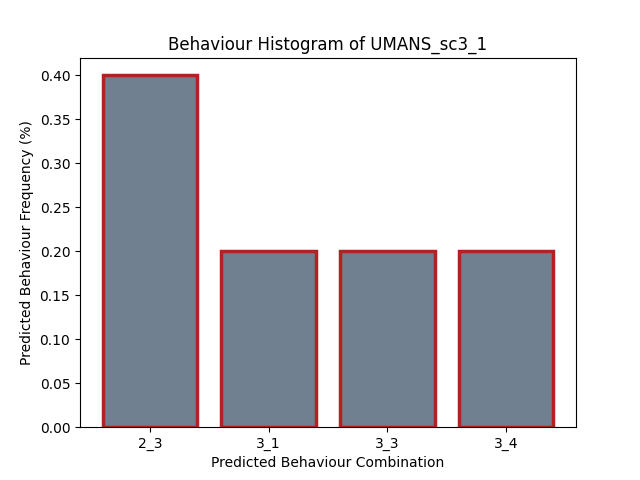
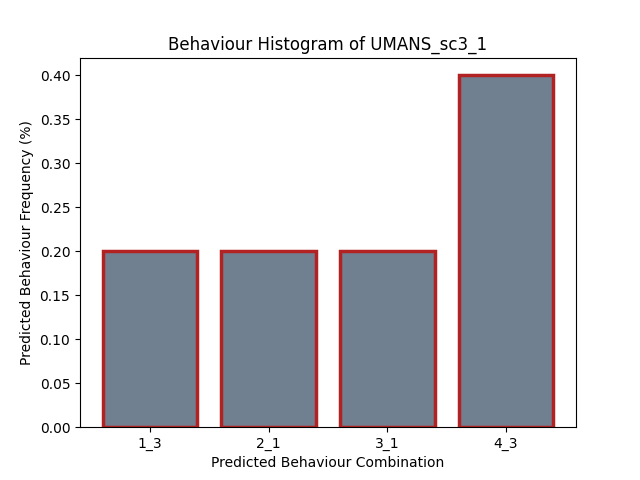
-- siamese

diff --git a/SocialLandmarks_Python/Tool/run_similarity.py b/SocialLandmarks_Python/Tool/run_similarity.py
@@ -17,42 +17,61 @@ def load_data_keras(folder_path):
     return image
 
 if __name__ ==  '__main__':
-    # TODO: specify directories
-    npz_real = "C:\PROJECTS\SocialLandmarks\SocialLandmarks_Python\Data\PythonFiles\ActedScenarios\Scenario2_guard\scenario2_guard_subject1.npz"
-    # npz_sim = "C:\PROJECTS\SocialLandmarks\SocialLandmarks_Python\Data\PythonFiles\CaseStudy\CCP\Scenario2_guard\Agent_441433527_855392969.npz"
-    # npz_sim = "C:\\PROJECTS\\SocialLandmarks\\SocialLandmarks_Python\\Data\\PythonFiles\\CaseStudy\\UMANS\\Scenario2_guard\\output_1.npz"
-    npz_sim = "C:\\PROJECTS\\SocialLandmarks\\SocialLandmarks_Python\\Data\\PythonFiles\\CaseStudy\\SL\\Scenario2_guard\\agent_1.npz"
+    parser = argparse.ArgumentParser(description="Process command-line inputs.")
+    parser.add_argument('--scenario', type=str, default="Scenario3_exhibit", help='Specific Scenario to perform Inference.')
+    parser.add_argument('--source', type=str, default="SL", help='Synthetic Trajectory Source.')
+    parser.add_argument('--sim_agent', type=str, default="agent_1.npz", help='Simulated agent name.')
+    args = parser.parse_args()
 
-    # Load Model
-    image_encoder = tf.keras.models.load_model("C:\PROJECTS\SocialLandmarks\SocialLandmarks_Python\Models\CrowdLIP\image_encoder_model.h5")
-    print("SUCCESS! Encoder is loaded.")
+    scenario_l = (args.scenario).lower()
+    real_dir = f"C:\PROJECTS\SocialLandmarks\SocialLandmarks_Python\Data\PythonFiles\CaseStudy\RecordedData\{args.scenario}\\"
+    reals = [f"{scenario_l}_subject1.npz", f"{scenario_l}_subject2.npz", f"{scenario_l}_subject3.npz",
+             f"{scenario_l}_subject4.npz", f"{scenario_l}_subject5.npz"]
+    sim_name = args.sim_agent
+    full_dict = {}
+    score_dict = {}
+    scores = []
+    for real_name in reals:
+        npz_real = real_dir + real_name
+        npz_sim = f"C:\PROJECTS\SocialLandmarks\SocialLandmarks_Python\Data\PythonFiles\CaseStudy\\{args.source}\{args.scenario}\\" + sim_name
+        # npz_sim = f"C:\PROJECTS\SocialLandmarks\SocialLandmarks_Python\Data\PythonFiles\CaseStudy\\{args.source}\Scenario2_guard\\" + sim_name
 
-    # Load Data
-    real = load_data_keras(npz_real) 
-    sim = load_data_keras(npz_sim) 
-    print(real.shape, sim.shape)
-    print("SUCCESS! Data is loaded.")
+        # Load Model
+        image_encoder = tf.keras.models.load_model("C:\PROJECTS\SocialLandmarks\SocialLandmarks_Python\Models\CrowdLIP\image_encoder_model.h5")
+        print("SUCCESS! Encoder is loaded.")
 
-    # Usage:
-    emb_a = image_encoder(real)
-    emb_b = image_encoder(sim)
-    emb_a_norm = Lambda(normalize)(emb_a)
-    emb_b_norm = Lambda(normalize)(emb_b)
-    print(emb_b_norm.shape, emb_a_norm.shape)
-    distance = Lambda(euclidean_distance)([emb_a_norm, emb_b_norm]) #bounded from 0 to 2
-    distance_norm = distance/2
-    print(distance_norm.shape)
-    score = 1 - distance_norm[0,0]
-    simScore = f"{float(score)*100}%"
-    print("Similarity Score is: ",float(score)*100, "%")
-    # if distance_pnt.numpy() > 0.5:
-    #     pred_value = 0
-    #     pred = "MATCH"
-    # else:
-    #     pred_value = 1
-    #     pred = "NO MATCH"
+        # Load Data
+        real = load_data_keras(npz_real) 
+        sim = load_data_keras(npz_sim) 
+        # print(real.shape, sim.shape)
+        print("SUCCESS! Data is loaded.")
 
+        # Usage:
+        emb_a = image_encoder(real)
+        emb_b = image_encoder(sim)
+        emb_a_norm = Lambda(normalize)(emb_a)
+        emb_b_norm = Lambda(normalize)(emb_b)
+        # print(emb_b_norm.shape, emb_a_norm.shape)
+        distance = Lambda(euclidean_distance)([emb_a_norm, emb_b_norm]) #bounded from 0 to 2
+        distance_norm = distance/2
+        # print(distance_norm.shape)
+        score = 1 - distance_norm[0,0]
+        scores.append(score)
+        simScore = f"{float(score)*100}%"
+        # print("Similarity Score is: ",float(score)*100, "%")
+        # if distance_pnt.numpy() > 0.5:
+        #     pred_value = 0
+        #     pred = "MATCH"
+        # else:
+        #     pred_value = 
+        #     pred = "NO MATCH"
+        score_dict[real_name] = simScore
+
+    score_dict["avg"] = str(float(sum(scores)/len(reals))*100) +"%"
+    score_dict["max"] = str(float(max(scores))*100)+"%"
+    print("Max. Similarity Score is: ",score_dict["max"])
+    full_dict[sim_name] = score_dict
     folder_path =  os.path.dirname(npz_sim)
-    file_path = f"{folder_path}\\similarityScores.json"
-    with open(file_path, "w") as json_file:
-        json.dump(simScore, json_file)
+    file_path = f"{folder_path}\\similarityScores_sc3.json"
+    with open(file_path, "a") as json_file:
+        json.dump(full_dict, json_file)

diff --git a/SocialLandmarks_Python/Tool/preprocess.py b/SocialLandmarks_Python/Tool/preprocess.py
@@ -25,6 +25,7 @@ from sklearn.cluster import KMeans
 from scipy import stats
 from skimage import io
 import cv2
+import argparse
 import random
 
 def fill_pixel(tol, pixel_x, pixel_z, intensity, image, resolution):
@@ -76,24 +77,34 @@ def read_ccp_csvs(csv_directory):
         # bound_max = max(np.max(df["pos_x"]), np.max(df["pos_z"]), 0)
         x_source =  14.18639
         z_source = -15.73068
+        # bound_min = min(np.min(df["pos_x"]), np.min(df["pos_z"]), x_source, z_source)
+        # bound_max = max(np.max(df["pos_x"]), np.max(df["pos_z"]), x_source, z_source)
         bound_min = min(np.min(df["pos_x"]), np.min(df["pos_z"]), x_source, z_source)
         bound_max = max(np.max(df["pos_x"]), np.max(df["pos_z"]), x_source, z_source)
 
-        tol = -25
+        tol = 10
         
         bound_max += tol
         bound_min -= tol 
+        bound_min_x = np.min(df["pos_x"]) - tol
+        bound_max_x = np.max(df["pos_x"]) + tol
+        bound_min_z = np.min(df["pos_z"]) - tol
+        bound_max_z = np.min(df["pos_z"]) + tol
 
-        df["pos_x"] = (df['pos_x'] - bound_min) / (bound_max - bound_min) * (1 - 0) 
-        df["pos_z"] = (df['pos_z'] - bound_min) / (bound_max - bound_min) * (1 - 0) 
+        # df["pos_x"] = (df['pos_x'] - bound_min) / (bound_max - bound_min) * (1 - 0) 
+        # df["pos_z"] = (df['pos_z'] - bound_min) / (bound_max - bound_min) * (1 - 0) 
+        df["pos_x"] = (df['pos_x'] - bound_min_x) / (bound_max_x - bound_min_x) * (1 - 0) 
+        df["pos_z"] = (df['pos_z'] - bound_min_z) / (bound_max_z - bound_min_z) * (1 - 0) 
 
         # TODO: dependent on environment 
         #source for CCP: x_source = 14.18639 z_source = -15.73068
         s = len(df["pos_x"])
         source_norm = np.zeros((s))
         # source_norm[0] = (0 - bound_min) / (bound_max - bound_min) * (1 - 0)
-        source_norm[0] = (x_source - bound_min) / (bound_max - bound_min) * (1 - 0)
-        source_norm[1] = (z_source - bound_min) / (bound_max - bound_min) * (1 - 0)
+        # source_norm[0] = (x_source - bound_min) / (bound_max - bound_min) * (1 - 0)
+        # source_norm[1] = (z_source - bound_min) / (bound_max - bound_min) * (1 - 0)
+        source_norm[0] = (x_source - bound_min_x) / (bound_max_x - bound_min_x) * (1 - 0)
+        source_norm[1] = (z_source - bound_min_z) / (bound_max_z - bound_min_z) * (1 - 0)
 
         df["norm_source"] = list(source_norm)
 
@@ -148,8 +159,8 @@ def read_csv_files(csv_directory):
         bound_min = min(np.min(df["pos_x"]), np.min(df["pos_z"]), source_x, source_y)
         bound_max = max(np.max(df["pos_x"]), np.max(df["pos_z"]), source_x, source_y)
 
-        bound_max += 0.5
-        bound_min -= 0.5
+        bound_max += 1.5
+        bound_min -= 1.5
 
         df["pos_x"] = (df['pos_x'] - bound_min) / (bound_max - bound_min) * (1 - 0) 
         df["pos_z"] = (df['pos_z'] - bound_min) / (bound_max - bound_min) * (1 - 0) 
@@ -258,12 +269,20 @@ def generate_python_files(folder_path, python_path):
 
 # Execute
 if __name__ ==  '__main__':
-    current_file_dir = "C:\PROJECTS\SocialLandmarks\SocialLandmarks_Python\Data\Trajectories\CaseStudy\\UMANS\\Scenario3_exhibit"
+    parser = argparse.ArgumentParser(description="Process command-line inputs.")
+    parser.add_argument('--scenario', type=str, default="Scenario3_exhibit", help='Specific Scenario to perform Inference.')
+    parser.add_argument('--source', type=str, default="SL", help='Synthetic Trajectory Source.')
+    args = parser.parse_args()
+
+    current_file_dir = f"C:\PROJECTS\SocialLandmarks\SocialLandmarks_Python\Data\Trajectories\CaseStudy\\{args.source}\\{args.scenario}"
     # current_file_dir = "C:\PROJECTS\SocialLandmarks\SocialLandmarks_Python\Data\Trajectories\CaseStudy\\CCP\\Scenario3_exhibit"
     
     csv_directory  = current_file_dir  + "\\"
 
-    csv_data =  read_csv_files(csv_directory) # read_ccp_csvs(csv_directory)#TODO
+    if args.source == "CCP":
+        csv_data =  read_ccp_csvs(csv_directory)#TODO
+    else:
+        csv_data =  read_csv_files(csv_directory) 
     n_csvs = len(csv_data)
     dict_list = list(csv_data.items())
     first_name, second_name = current_file_dir.split("Trajectories")

diff --git a/SocialLandmarks_Python/Experiments/inference_existing.py b/SocialLandmarks_Python/Experiments/inference_existing.py
@@ -365,13 +365,17 @@ def generate_trajectories(beh_distr, n_agents, mode):
 
 
 if __name__ ==  '__main__':
+    parser = argparse.ArgumentParser(description="Process command-line inputs.")
+    parser.add_argument('--scenario', type=str, default="Scenario3_exhibit", help='Specific Scenario to perform Inference.')
+    parser.add_argument('--n_agents', type=int, default=3, help='How many agents to generate')
+    args = parser.parse_args()
 
     model_name = "model_final.pth"
     model_type = "pytorch"
     # dataset_name = "Flock"
     # dataset_name = "Zara"
     # dataset_name = "Students"
-    specific = "Scenario2_guard"
+    specific = args.scenario
     dataset_name = f"ActedScenarios/{specific}"
 
     x_test = load_python_files(dataset_name)
@@ -394,6 +398,6 @@ if __name__ ==  '__main__':
     print(beh_distr)
     
     # Generate new trajectories based on inferred behaviours:
-    n_agents = 10
+    n_agents = args.n_agents
     mode =  f"Inference\{dataset_name}"
     generate_trajectories(beh_distr, n_agents, mode)

diff --git a/SocialLandmarks_Python/Tool/build_distributions.py b/SocialLandmarks_Python/Tool/build_distributions.py
@@ -27,7 +27,7 @@ def make_hist(hist_values, decode_dict, dataset_name):
             tick_names.append(decode_dict[index])
     
 
-    plt.bar(range(len(decode_dict)), hist_adj, tick_label=tick_names, color = 'slategrey', edgecolor = 'firebrick', linewidth=2.5)
+    plt.bar(range(len(decode_dict)), hist_adj, tick_label=tick_names, color = 'slategrey') #, edgecolor = 'firebrick', linewidth=2.5)
     plt.xlabel('Predicted Behaviour Combination')
     plt.ylabel('Predicted Behaviour Frequency (%)')
     plt.title(f'Behaviour Histogram of {dataset_name}')
@@ -45,7 +45,7 @@ if __name__ ==  '__main__':
     # Load predictions:
     pred_loc = "C:\\PROJECTS\\SocialLandmarks\\SocialLandmarks_Python\\Data\\PythonFiles\\CaseStudy\\UMANS\\Scenario3_exhibit"
     json_files = [f for f in os.listdir(pred_loc) if f.endswith('.json')]
-    name = "UMANS_sc3"
+    name = "UMANS_sc3_1"
     counter = 1 
     for json_file in json_files:
         path = os.path.join(pred_loc, json_file)

diff --git a/SocialLandmarks_Python/Experiments/run_sl.py b/SocialLandmarks_Python/Experiments/run_sl.py
@@ -3,6 +3,10 @@ from inference import *
 from inference_existing import *
 
 if __name__ ==  '__main__':
+    parser = argparse.ArgumentParser(description="Process command-line inputs.")
+    parser.add_argument('--scenario', type=str, default="Scenario3_exhibit", help='Specific Scenario to perform Inference.')
+    parser.add_argument('--source', type=str, default="SL", help='Synthetic Trajectory Source.')
+    args = parser.parse_args()
 
     # Instructions:
     # cd C:\PROJECTS\SocialLandmarks
@@ -14,7 +18,7 @@ if __name__ ==  '__main__':
     # name = "\\RecordedData\\Scenario5_foodcourt"
     # name = "\\SL\\Scenario2_guard"
     # name = "\\CCP\\Scenario3_exhibit"
-    name = "\\UMANS\\Scenario3_exhibit"
+    name = f"\\{args.source}\\{args.scenario}"
     folder_path = folder_dir + name
 
     x_tool = load_inference_data(folder_path)

diff --git a/SocialLandmarks_Python/Experiments/imports.py b/SocialLandmarks_Python/Experiments/imports.py
@@ -21,7 +21,7 @@ import time
 from skimage.metrics import structural_similarity as ssim
 from fastdtw import fastdtw
 from scipy.spatial.distance import euclidean
-
+import argparse
 
 # IMPORTS KERAS
 from importlib.metadata import requires

diff --git a/SocialLandmarks_Python/Tool/imports.py b/SocialLandmarks_Python/Tool/imports.py
@@ -24,6 +24,7 @@ from sklearn.cluster import KMeans
 from scipy import stats
 from skimage import io
 import cv2
+import argparse
 import random
 
 
